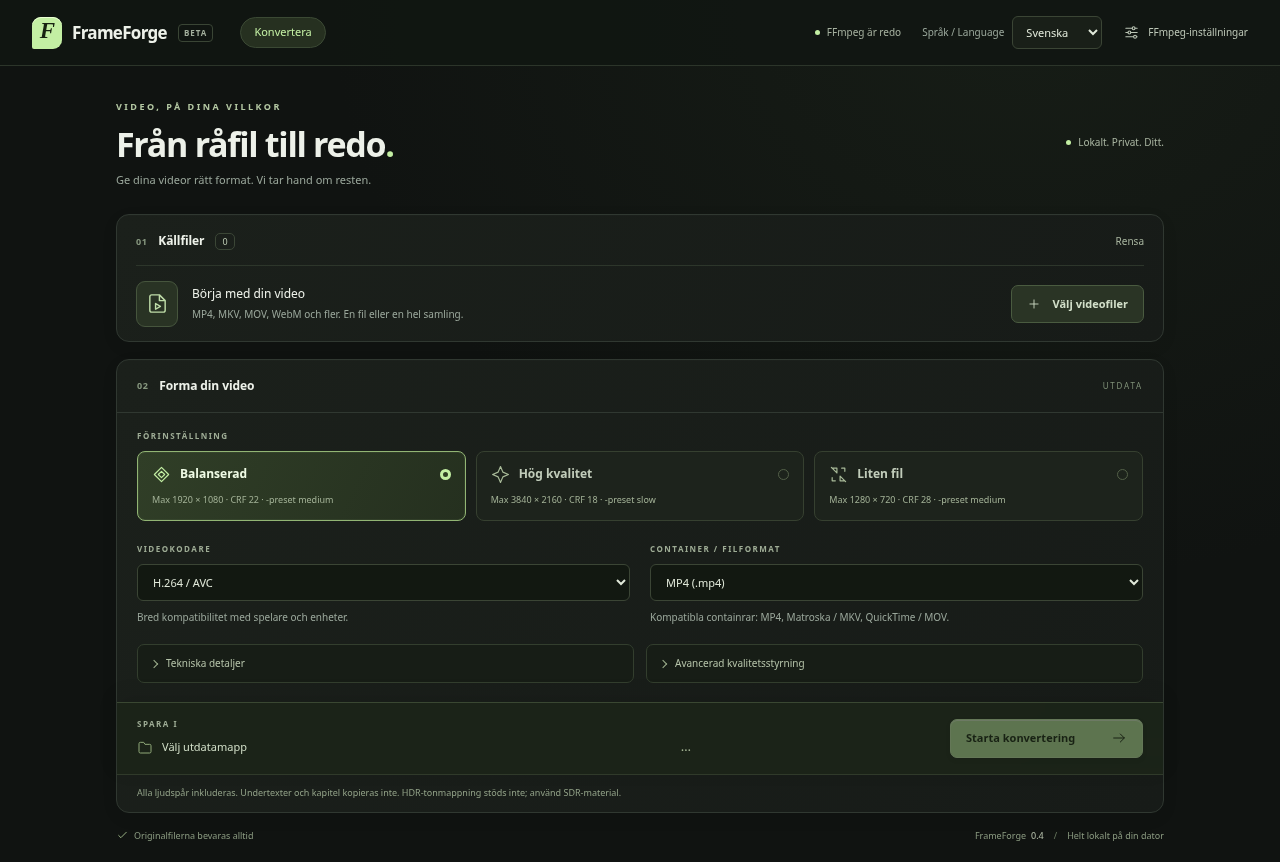
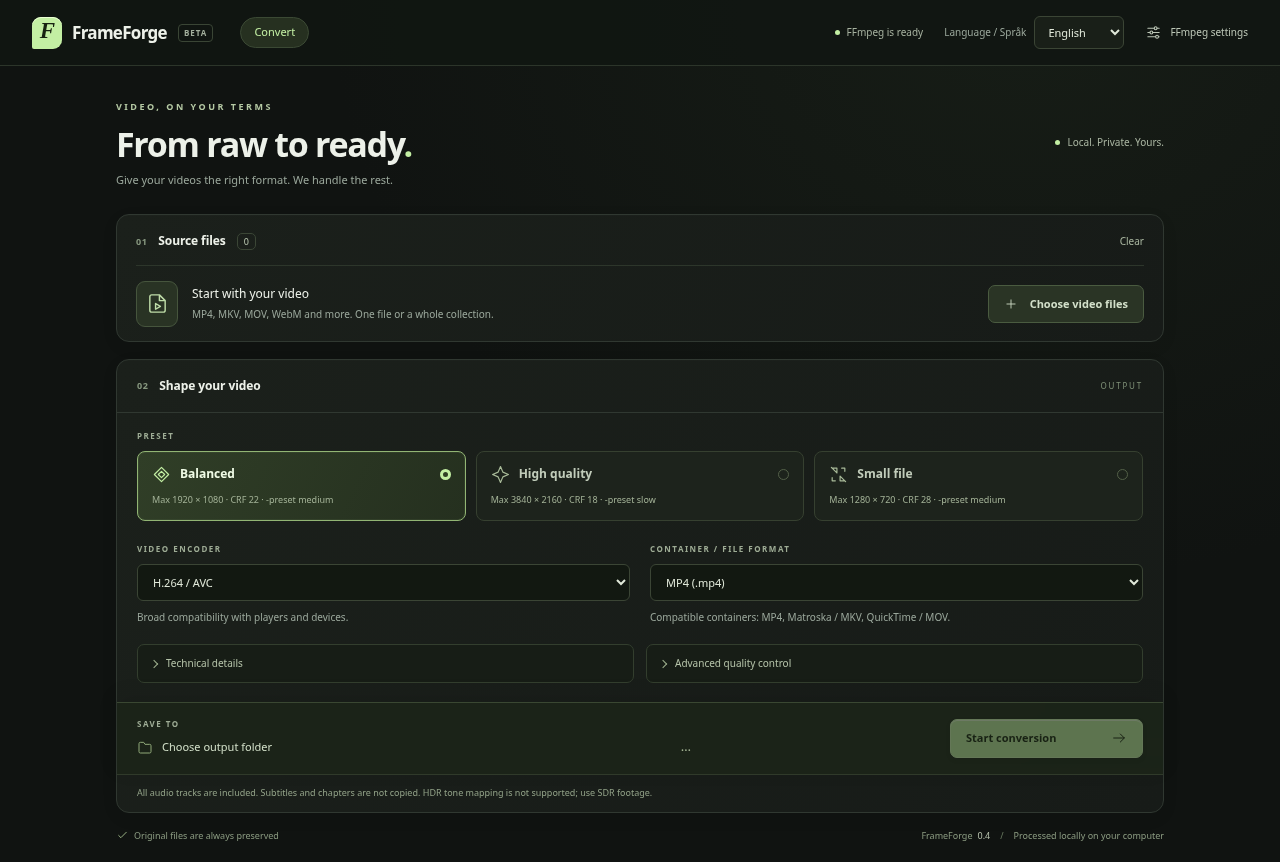
Show English interface in README screenshot

diff --git a/README.md b/README.md
@@ -1,6 +1,6 @@
 # FrameForge
 
-![FrameForge 0.4 – kompakt gränssnitt](docs/frameforge-0.4.png)
+![FrameForge 0.4 – English interface](docs/frameforge-0.4.png)
 
 En första Windows-app för lokal videokonvertering, byggd med Electron och FFmpeg. Svenskt och engelskt gränssnitt, filkö, tre kvalitetsprofiler, H.264/H.265/AV1/VP9, fyra containrar och avbrytning. Originalfiler och befintliga utdatafiler skrivs inte över.
 
